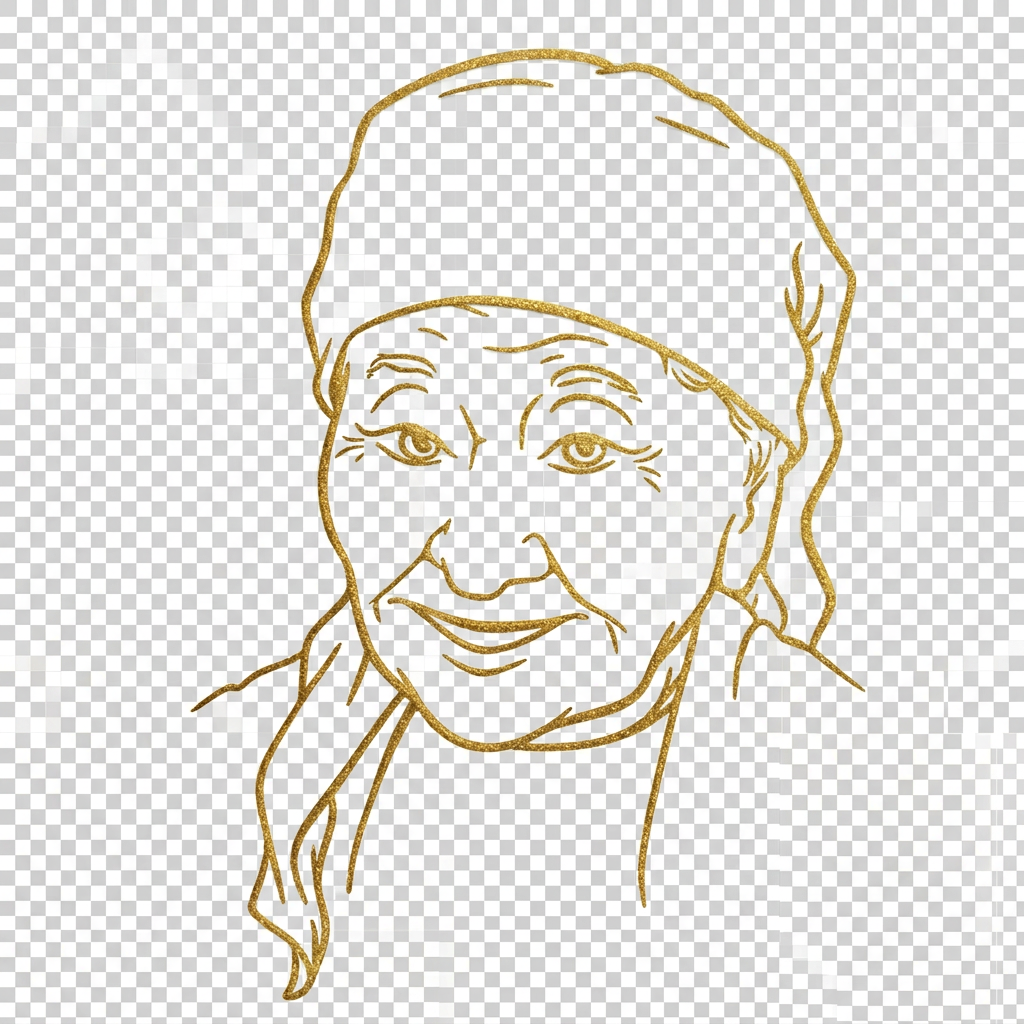
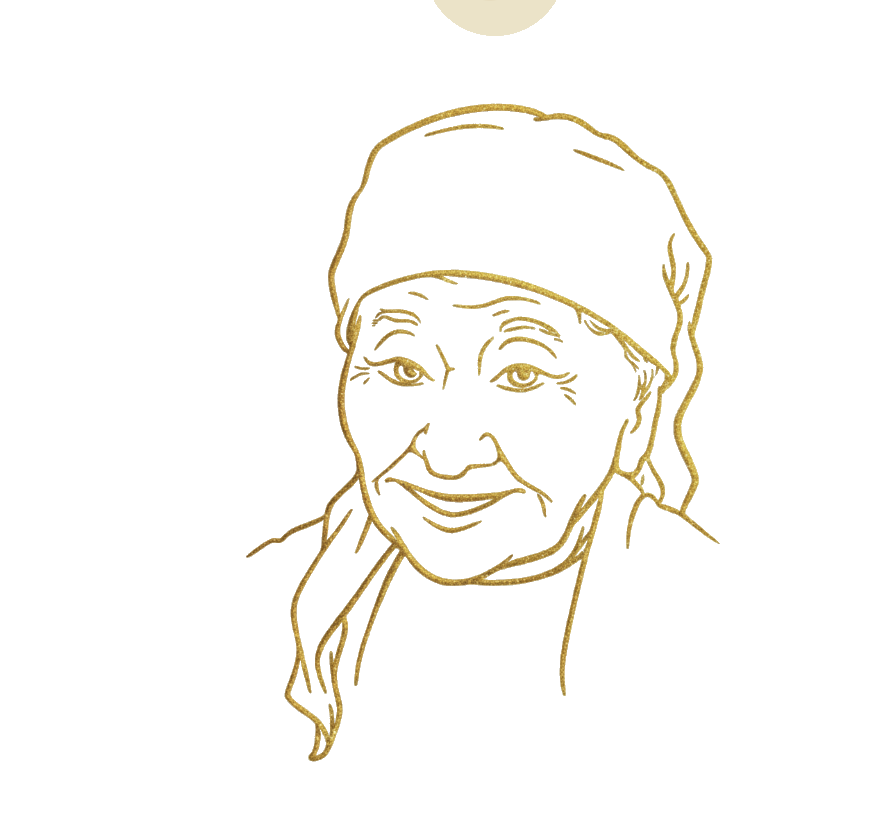
Changes

diff --git a/src/pages/About.tsx b/src/pages/About.tsx
@@ -23,10 +23,10 @@ const About = () => {
           <div className="space-y-16">
             {/* Grandma illustration */}
             <div className="flex justify-center">
-              <img 
-                src={grandmaIllustration} 
-                alt="איור סבתא" 
-                className="w-64 md:w-80 h-auto"
+              <img
+                src={grandmaIllustration}
+                alt="איור סבתא"
+                className="w-72 md:w-[22rem] h-auto object-contain"
               />
             </div>
 
